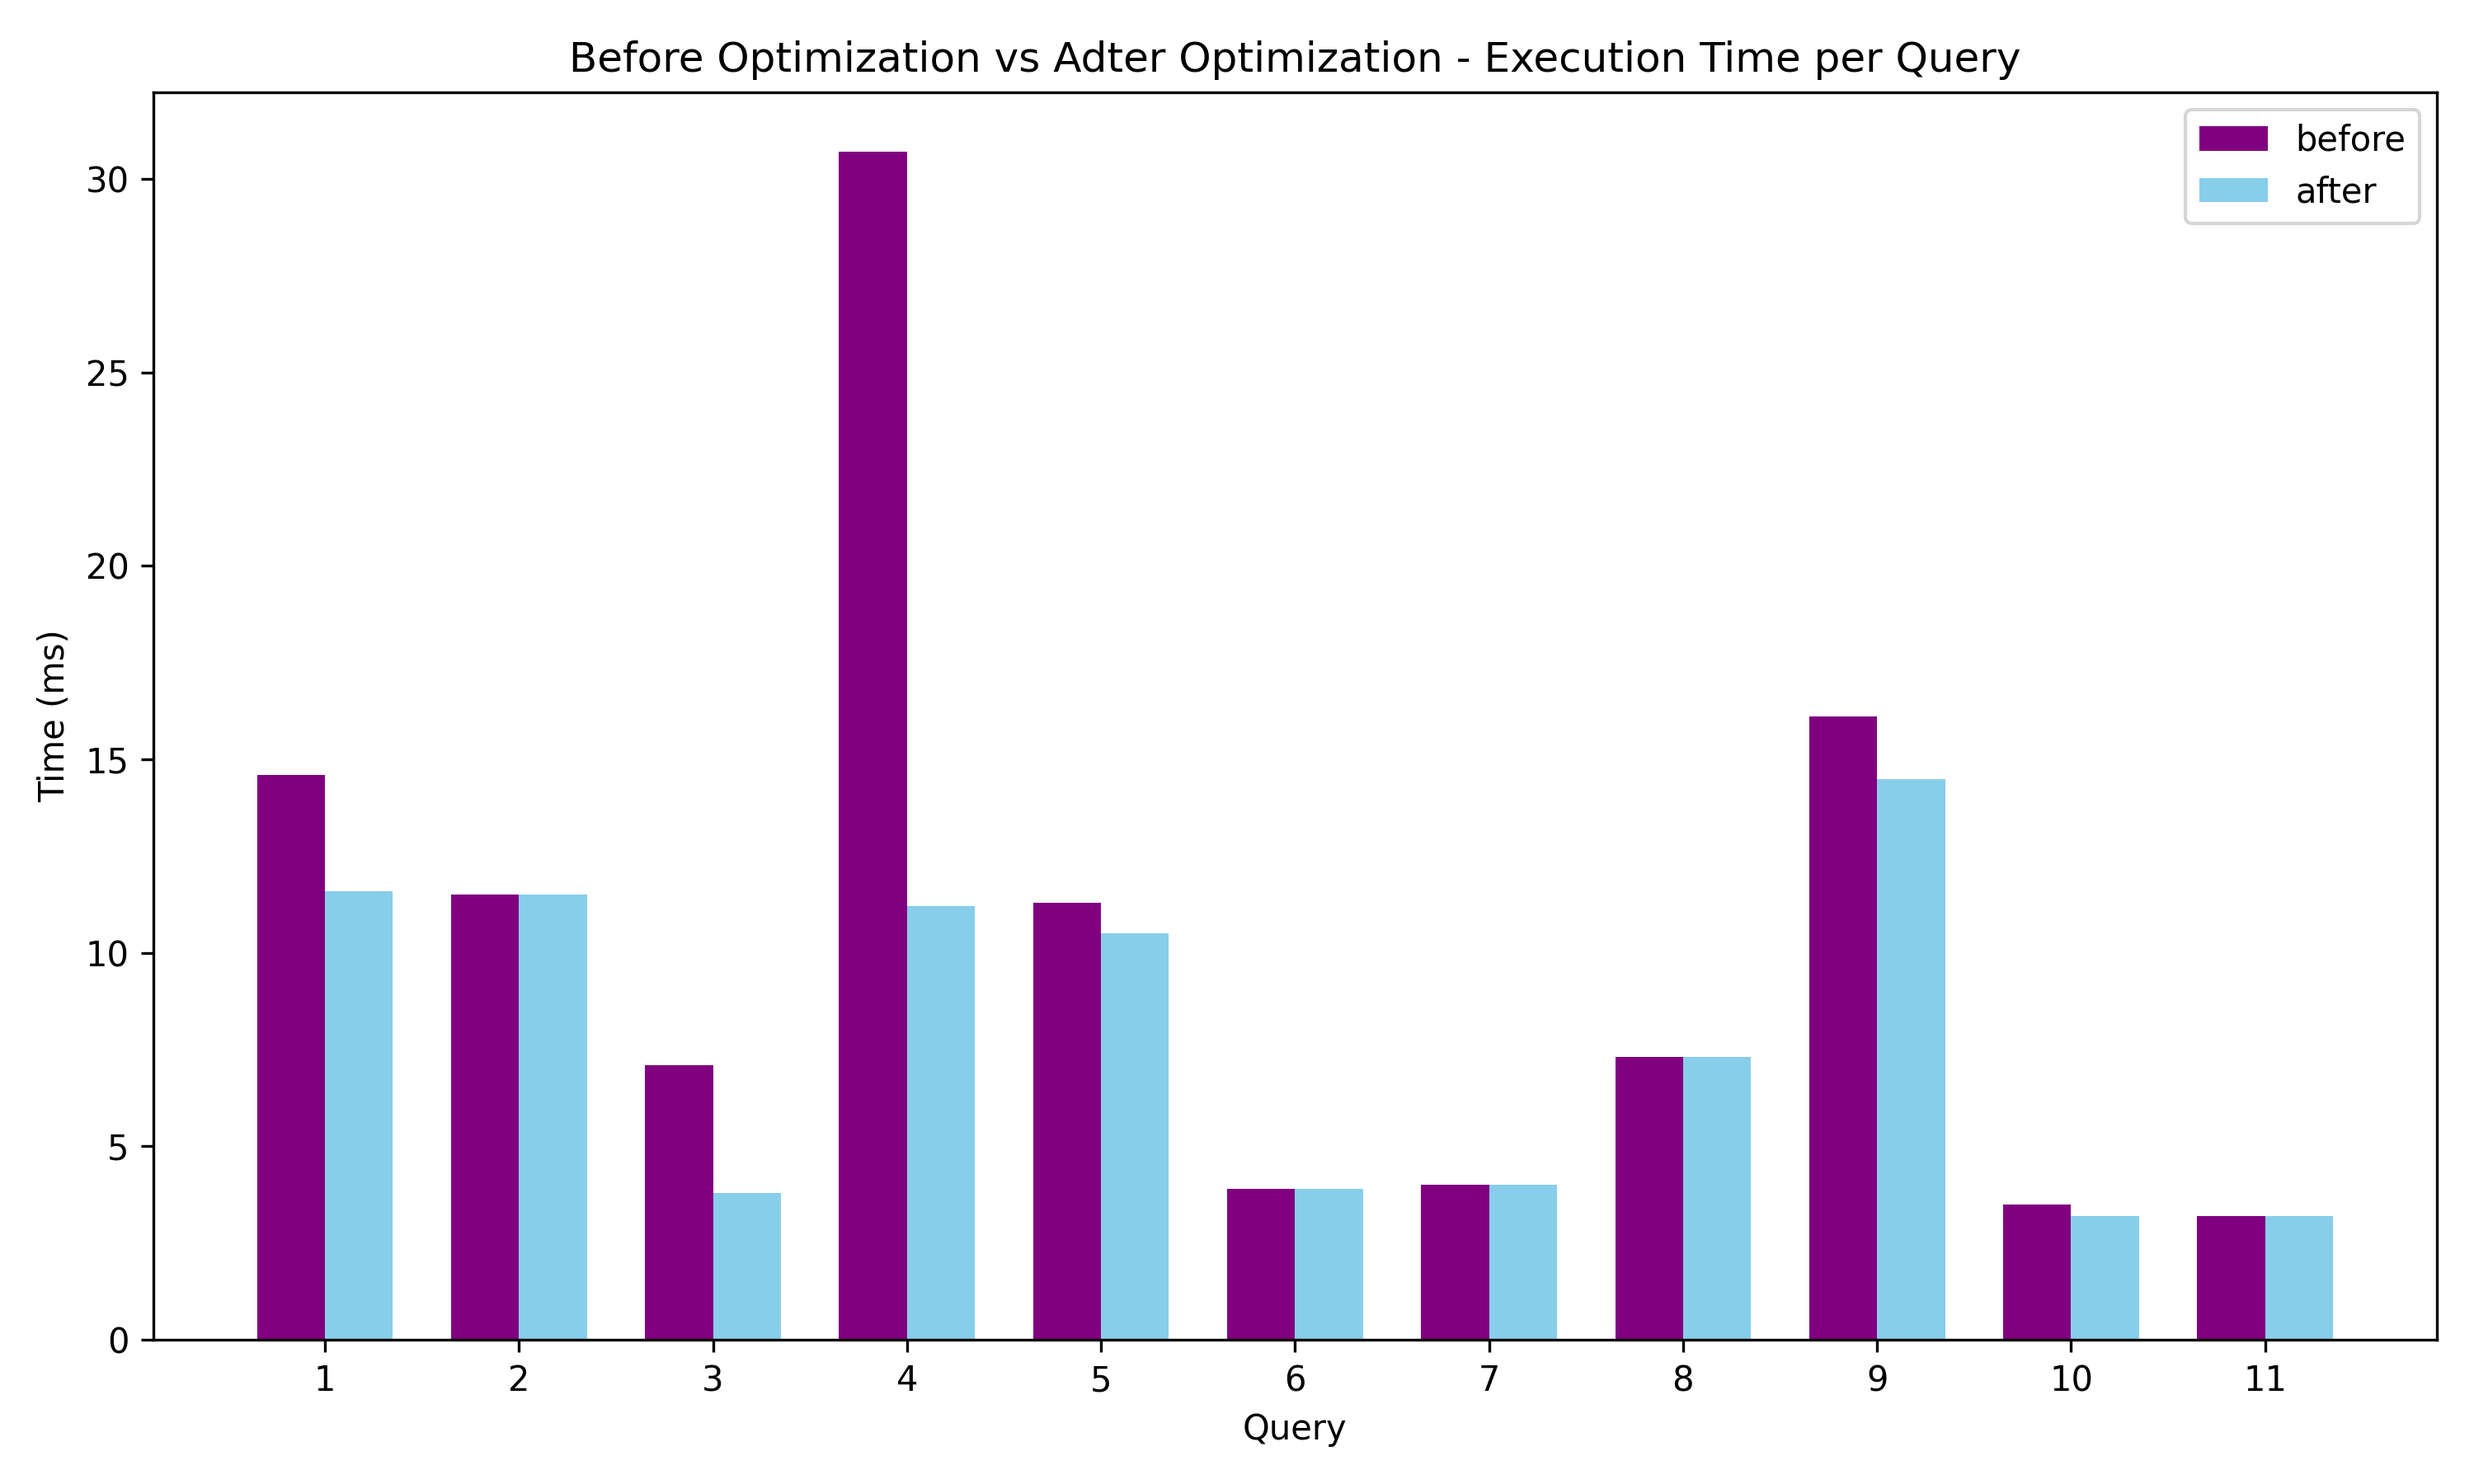
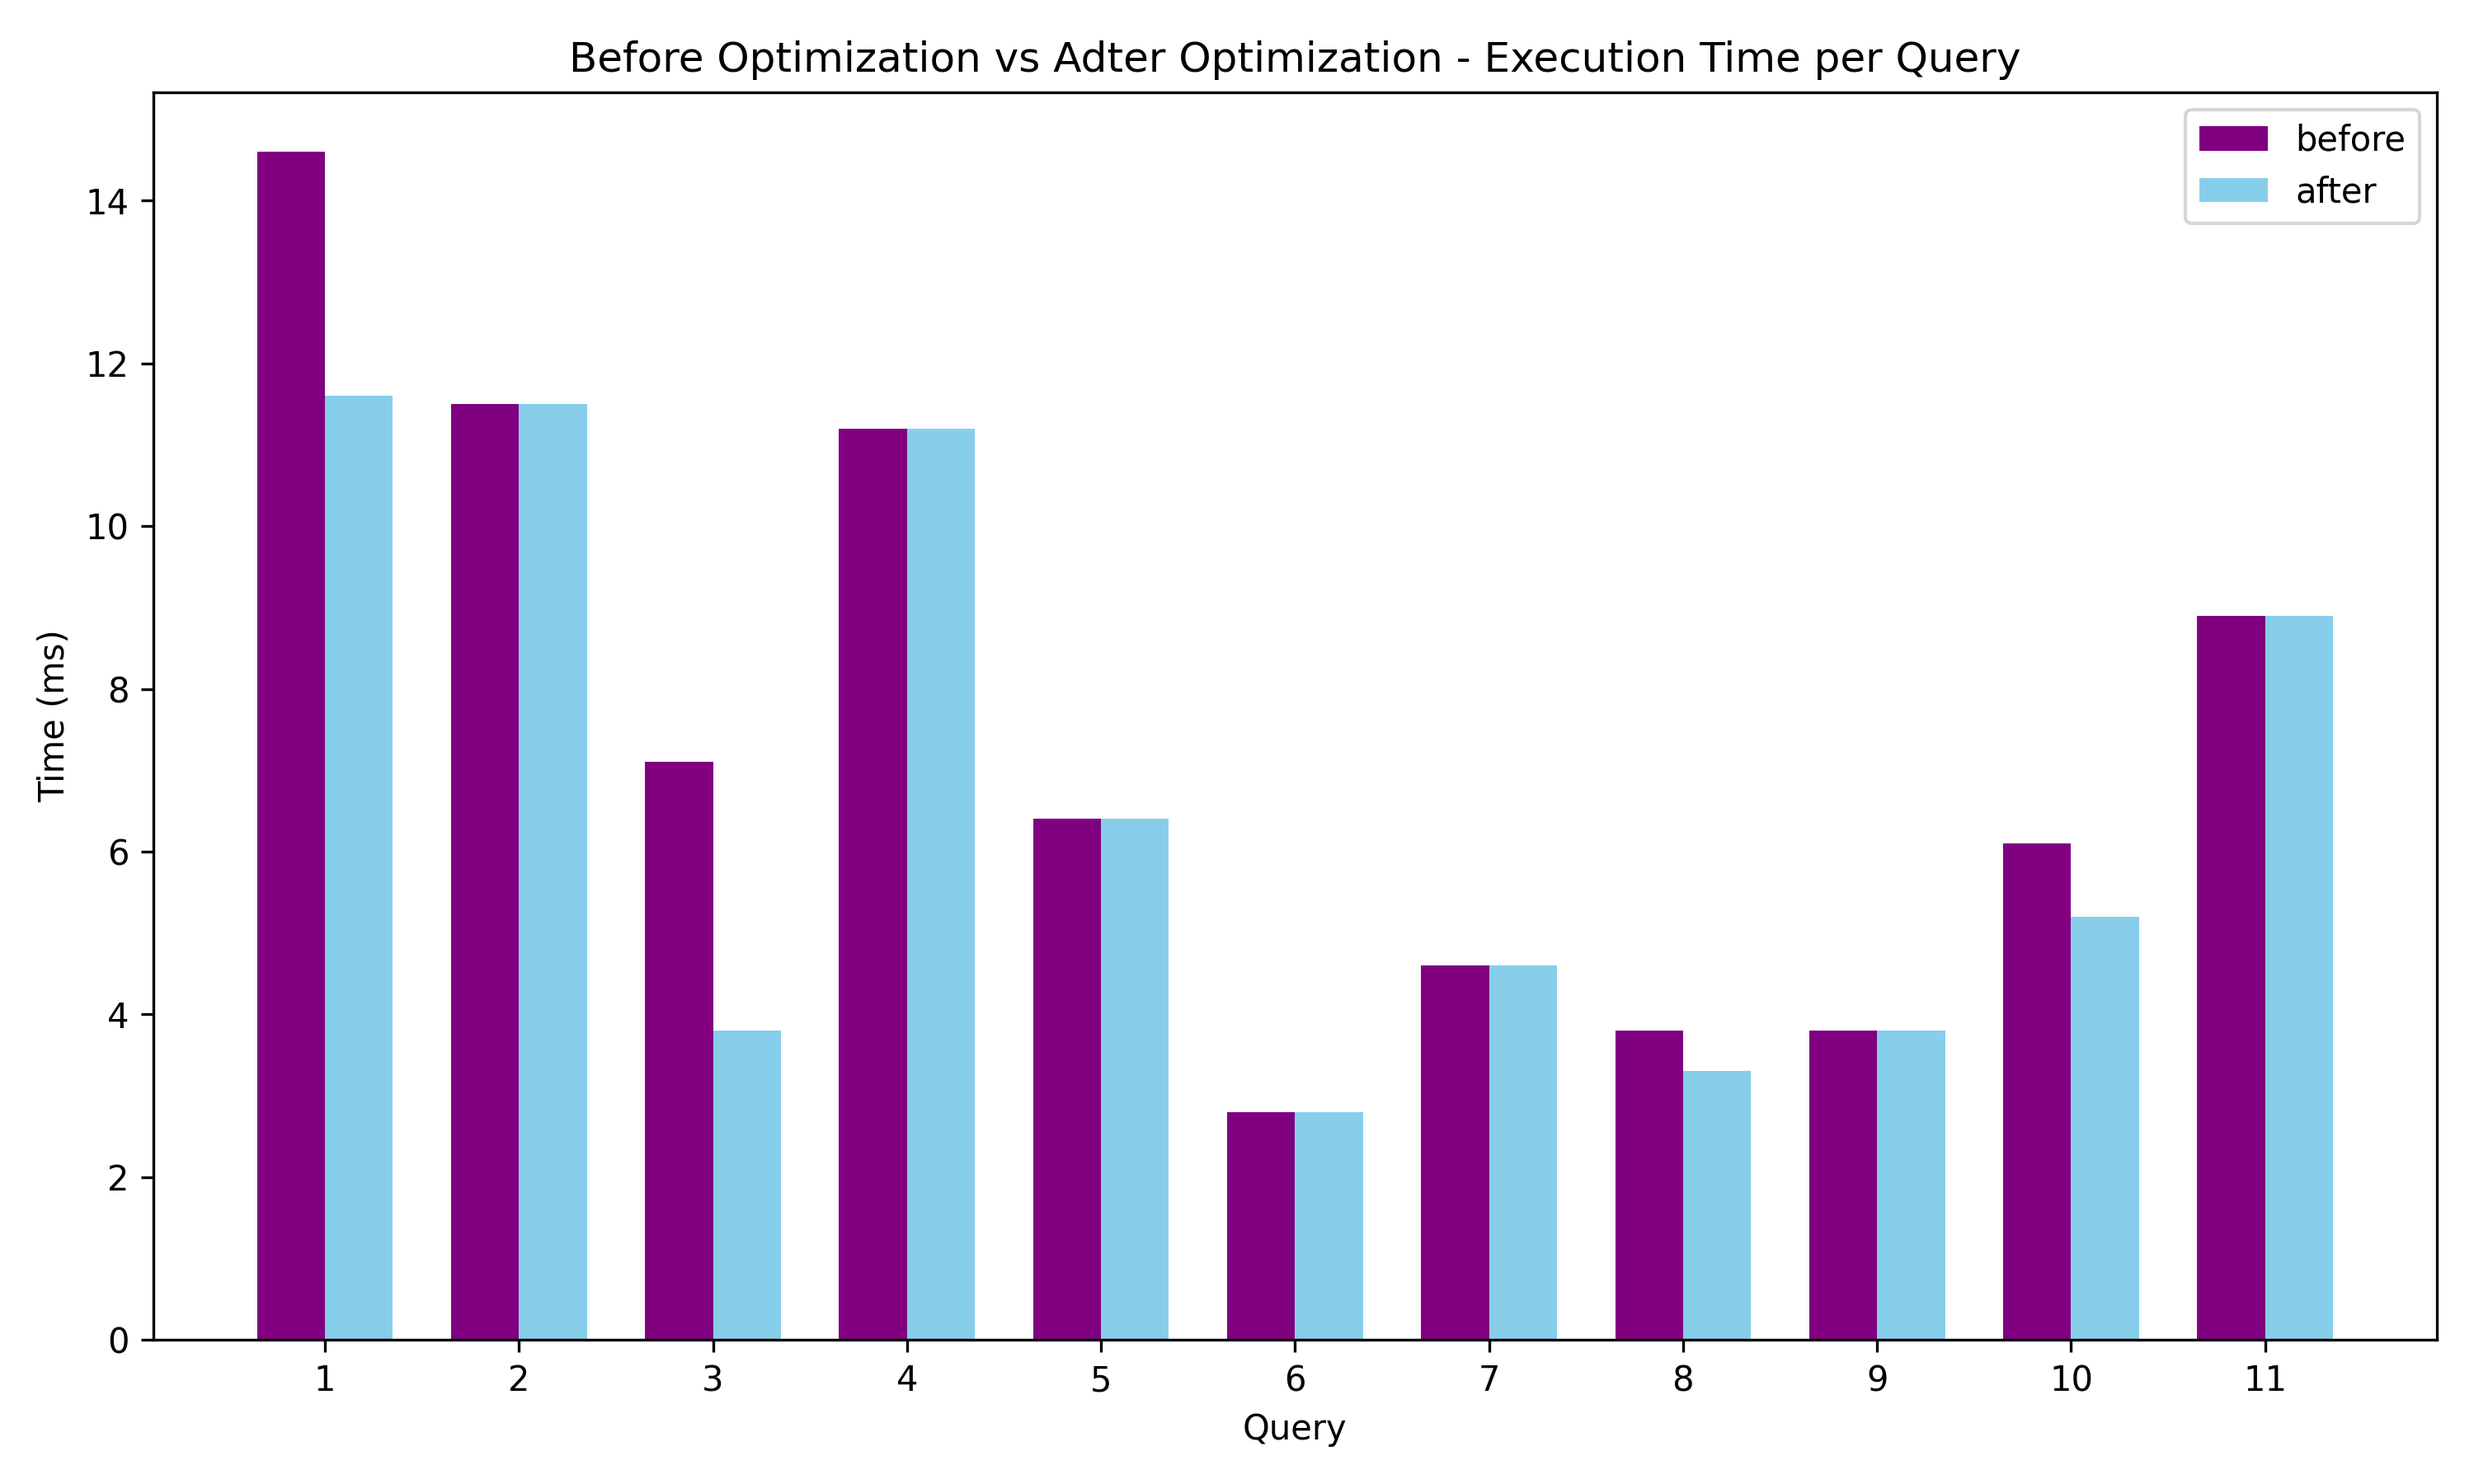
added fixes all over the place

diff --git a/duckdb-be/average_runtime.py b/duckdb-be/average_runtime.py
@@ -1,37 +1,22 @@
 import time
 from duckdb_data import get_connection
 
-connection = get_connection()  # reuse the same DuckDB session
+connection = get_connection()  
 
 query = """
-WITH user_card_counts AS (
-    SELECT user_id, COUNT(card_id) AS num_cards
-    FROM cards
-    GROUP BY user_id
-),
-user_spending AS (
-    SELECT user_id, SUM(CAST(REPLACE(CAST(amount AS VARCHAR), '$', '') AS DOUBLE)) AS total_spent
-    FROM transactions_parquet
-    GROUP BY user_id
+WITH active_cards AS (
+    SELECT DISTINCT c.card_id
+    FROM cards c
+    JOIN transactions_parquet t ON c.user_id = t.user_id
 )
-SELECT 'All Users' AS step, COUNT(*) AS users FROM "User"
-UNION ALL
-SELECT '2+ Cards', COUNT(*) 
-FROM user_card_counts
-WHERE num_cards >= 2
-UNION ALL
-SELECT 'High Spenders', COUNT(*) 
-FROM user_spending
-WHERE total_spent > 5000
-UNION ALL
-SELECT 'Low Credit Score', COUNT(*) 
-FROM "Account"
-WHERE credit_score < 700
-UNION ALL
-SELECT 'Compromised Cards', COUNT(*) 
-FROM cards 
-WHERE card_on_dark_web = TRUE;
-
+SELECT 
+    c.card_brand AS card_brand,
+    SUM(c.num_cards_issued) AS total_cards_issued,
+    COUNT(ac.card_id) AS total_cards_active
+FROM cards c
+LEFT JOIN active_cards ac ON c.card_id = ac.card_id
+GROUP BY c.card_brand
+ORDER BY c.card_brand;
 """
 
 n_runs = 10

diff --git a/duckdb-be/user_data.py b/duckdb-be/user_data.py
@@ -32,6 +32,7 @@ create_tables(cursor, 'data_scripts/postgres/create_tables.sql')
 
 # Reading data
 user_df = pd.read_csv("data/raw/user.csv")
+
 address_df = pd.read_csv("data/raw/address.csv")
 account_df = pd.read_csv("data/raw/account.csv")
 
@@ -39,7 +40,7 @@ account_df = pd.read_csv("data/raw/account.csv")
 address_df["per_capita_income"] = address_df["per_capita_income"].replace('[\$,]', '', regex=True).astype(float)
 account_df["yearly_income"] = account_df["yearly_income"].replace('[\$,]', '', regex=True).astype(float)
 account_df["total_debt"] = account_df["total_debt"].replace('[\$,]', '', regex=True).astype(float)
-
+account_df["credit_score"] = account_df["credit_score"].astype(float)
 insert_data(user_df, "User")      
 insert_data(address_df, "Address")
 insert_data(account_df, "Account")
